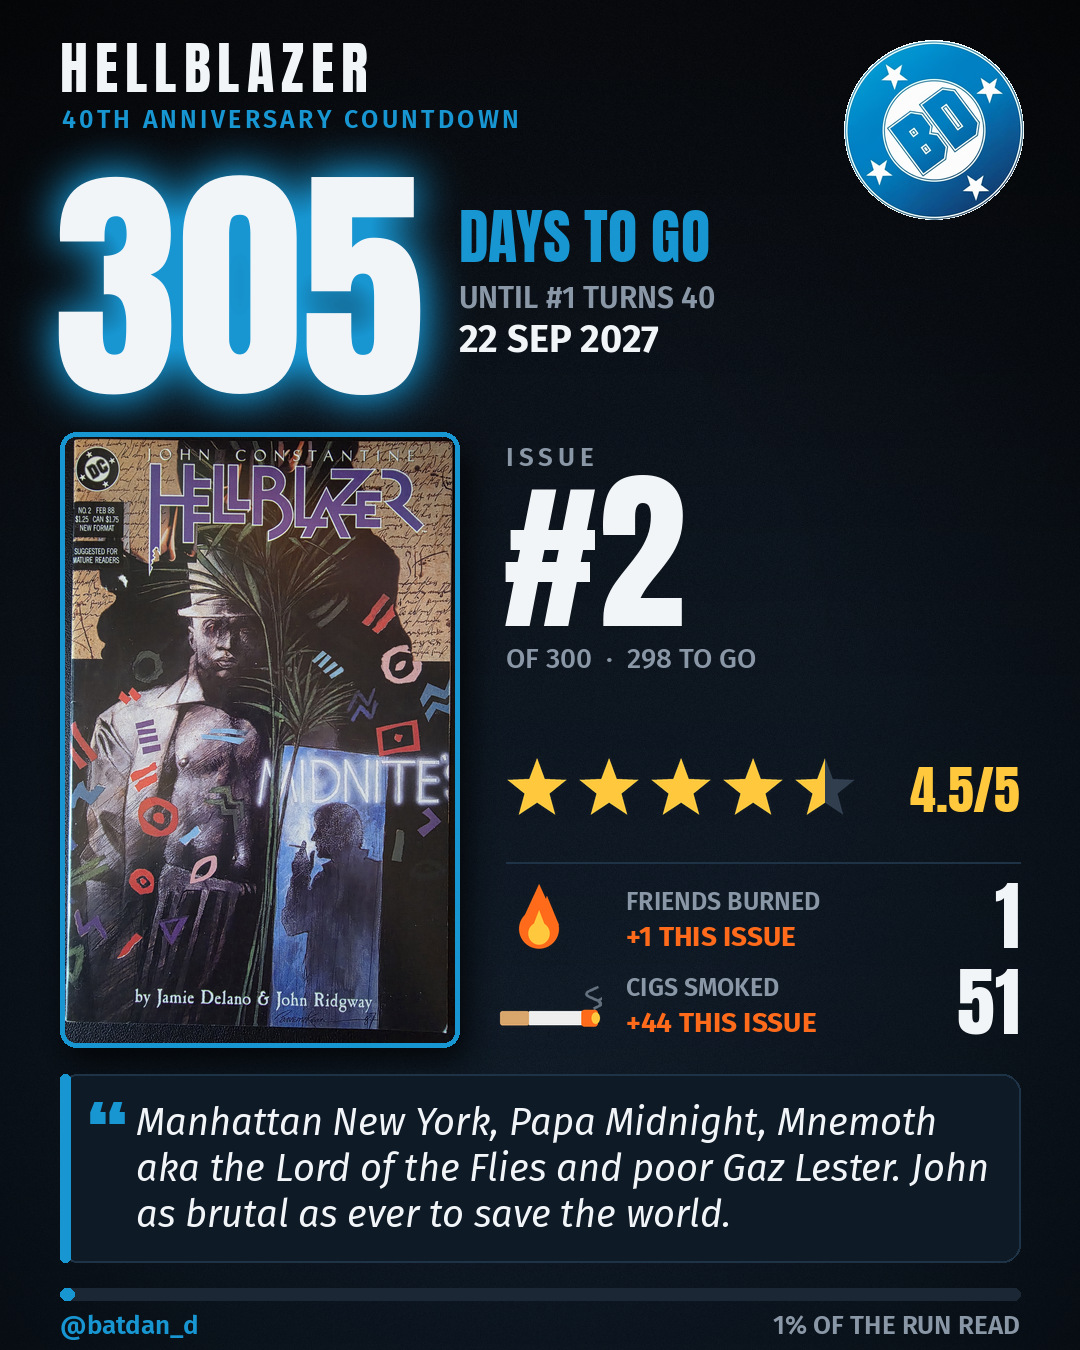
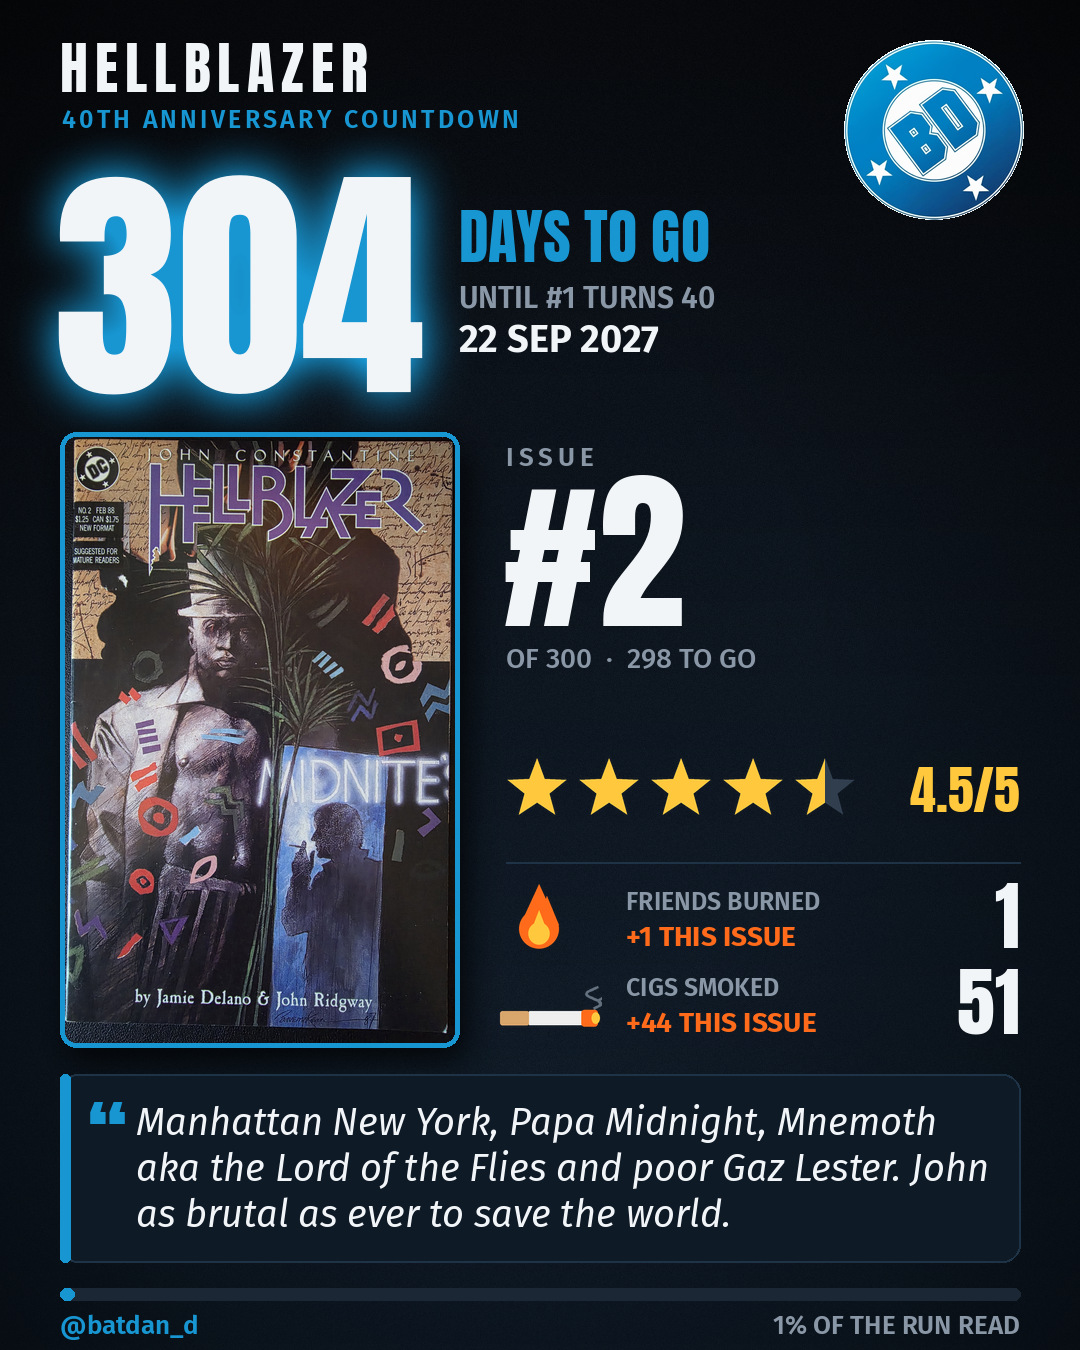
Update next post

Changed region(s): [[0.2444, 0.0933, 0.3972, 0.3111]]

diff --git a/NEXT_POST.md b/NEXT_POST.md
@@ -1,28 +1,28 @@
-# 📮 Next post — Hellblazer #3
+# 📮 Next post — Hellblazer #2
 
 **304 days to go.**  Save the image, copy the caption, post to Instagram.
 
-![Post card](public/posts/hb-003.jpg)
+![Post card](public/posts/hb-002.jpg)
 
 ### Caption
 
 ```
-☠ T-MINUS 304 DAYS — Hellblazer #3
-★★★★☆  4/5
+☠ T-MINUS 304 DAYS — Hellblazer #2
+★★★★½  4.5/5
 
-Demon yuppies from hell & Thatchers 1987 General Election. Proper good old bad days..
+Manhattan New York, Papa Midnight, Mnemoth aka the Lord of the Flies and poor Gaz Lester. John as brutal as ever to save the world.
 
 ✍ Writer: Jamie Delano
 🎨 Art: John Ridgway
 🖼 Cover: Dave McKean
 
-🔥 Friends burned: +0 (total 1)
-🚬 Cigs: +4 (total 55)
+🔥 Friends burned: +1 (total 1)
+🚬 Cigs: +44 (total 51)
 
-📖 Issue 3/300 — reading the whole run before #1 turns 40 on 22 September 2027.
+📖 Issue 2/300 — reading the whole run before #1 turns 40 on 22 September 2027.
 
 #hellblazer #johnconstantine #vertigocomics #dccomics #comicbooks #comiccollector #comicsofinstagram #readingchallenge #hellblazer40
 ```
 
 ---
-_After you post this, set issue 3 to **Posted** in your tracker; the next Ready issue then appears here._
+_After you post this, set issue 2 to **Posted** in your tracker; the next Ready issue then appears here._
